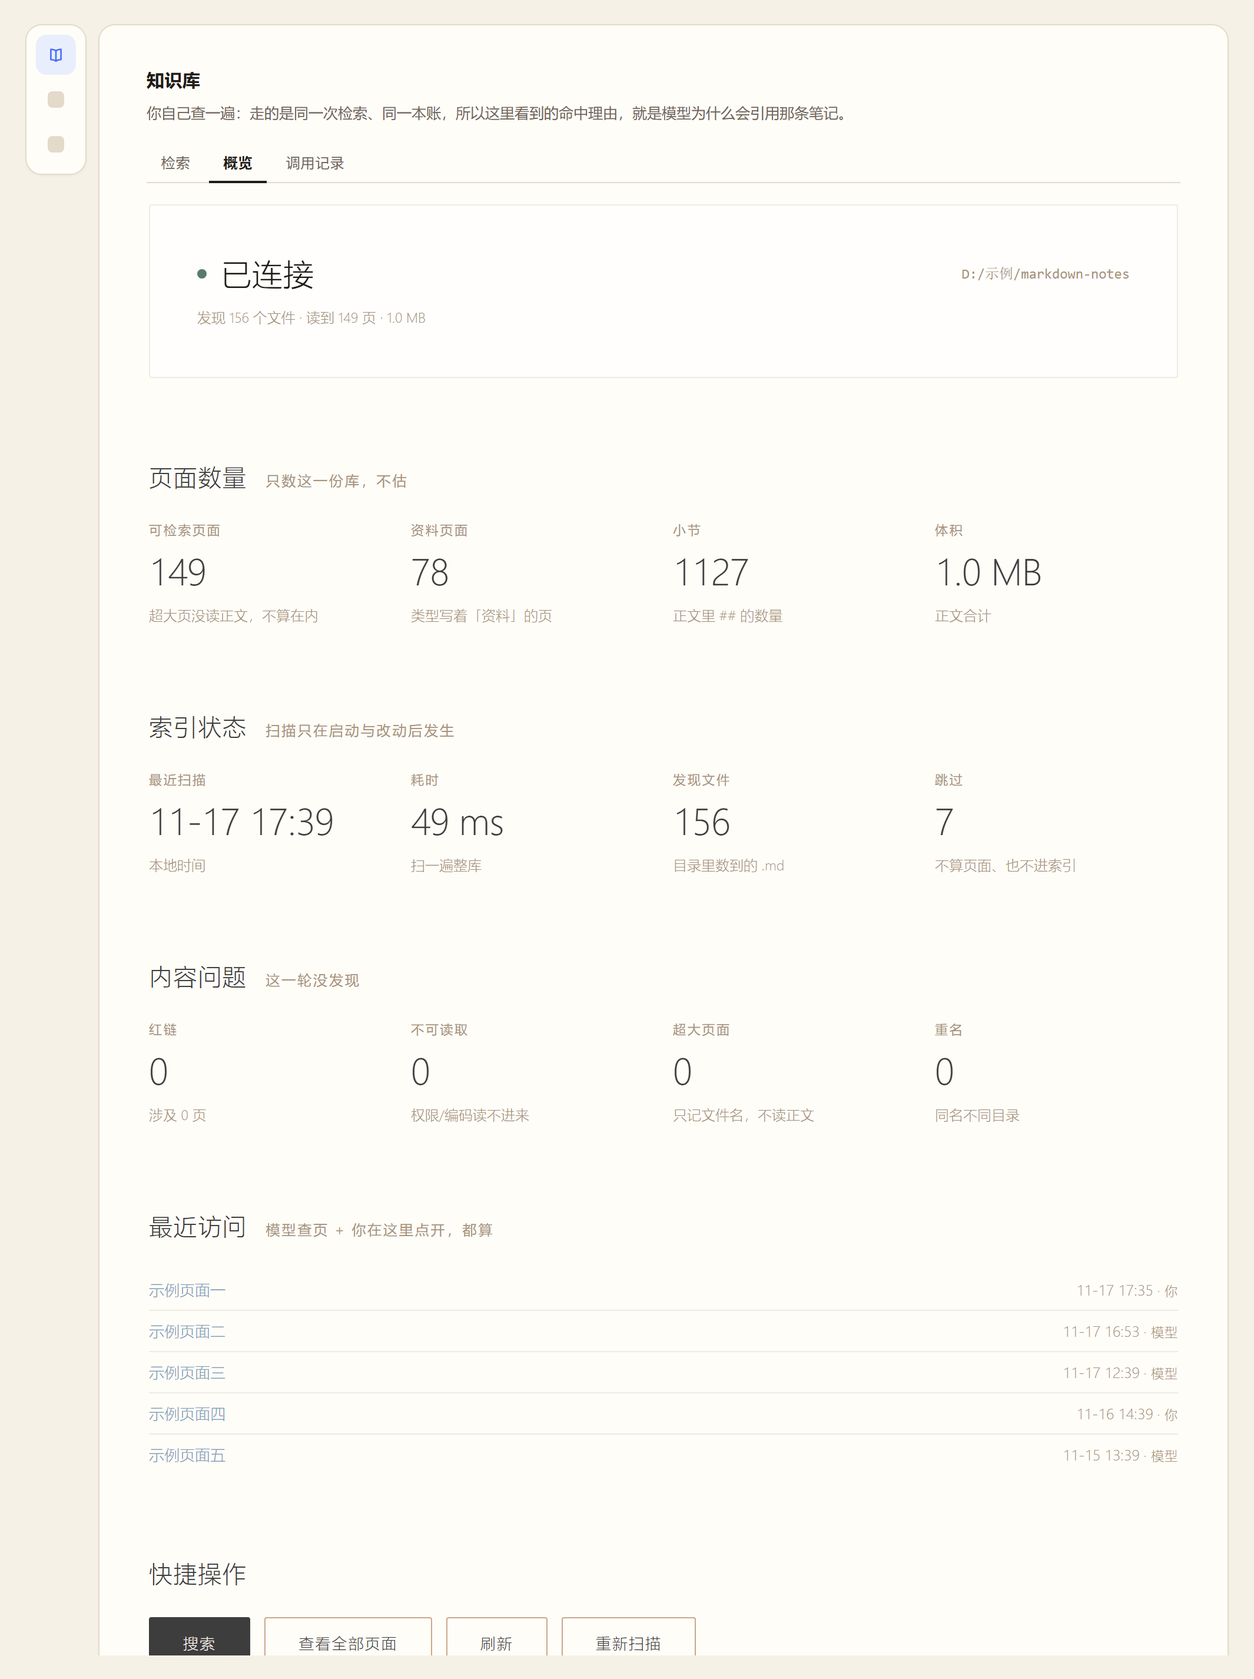
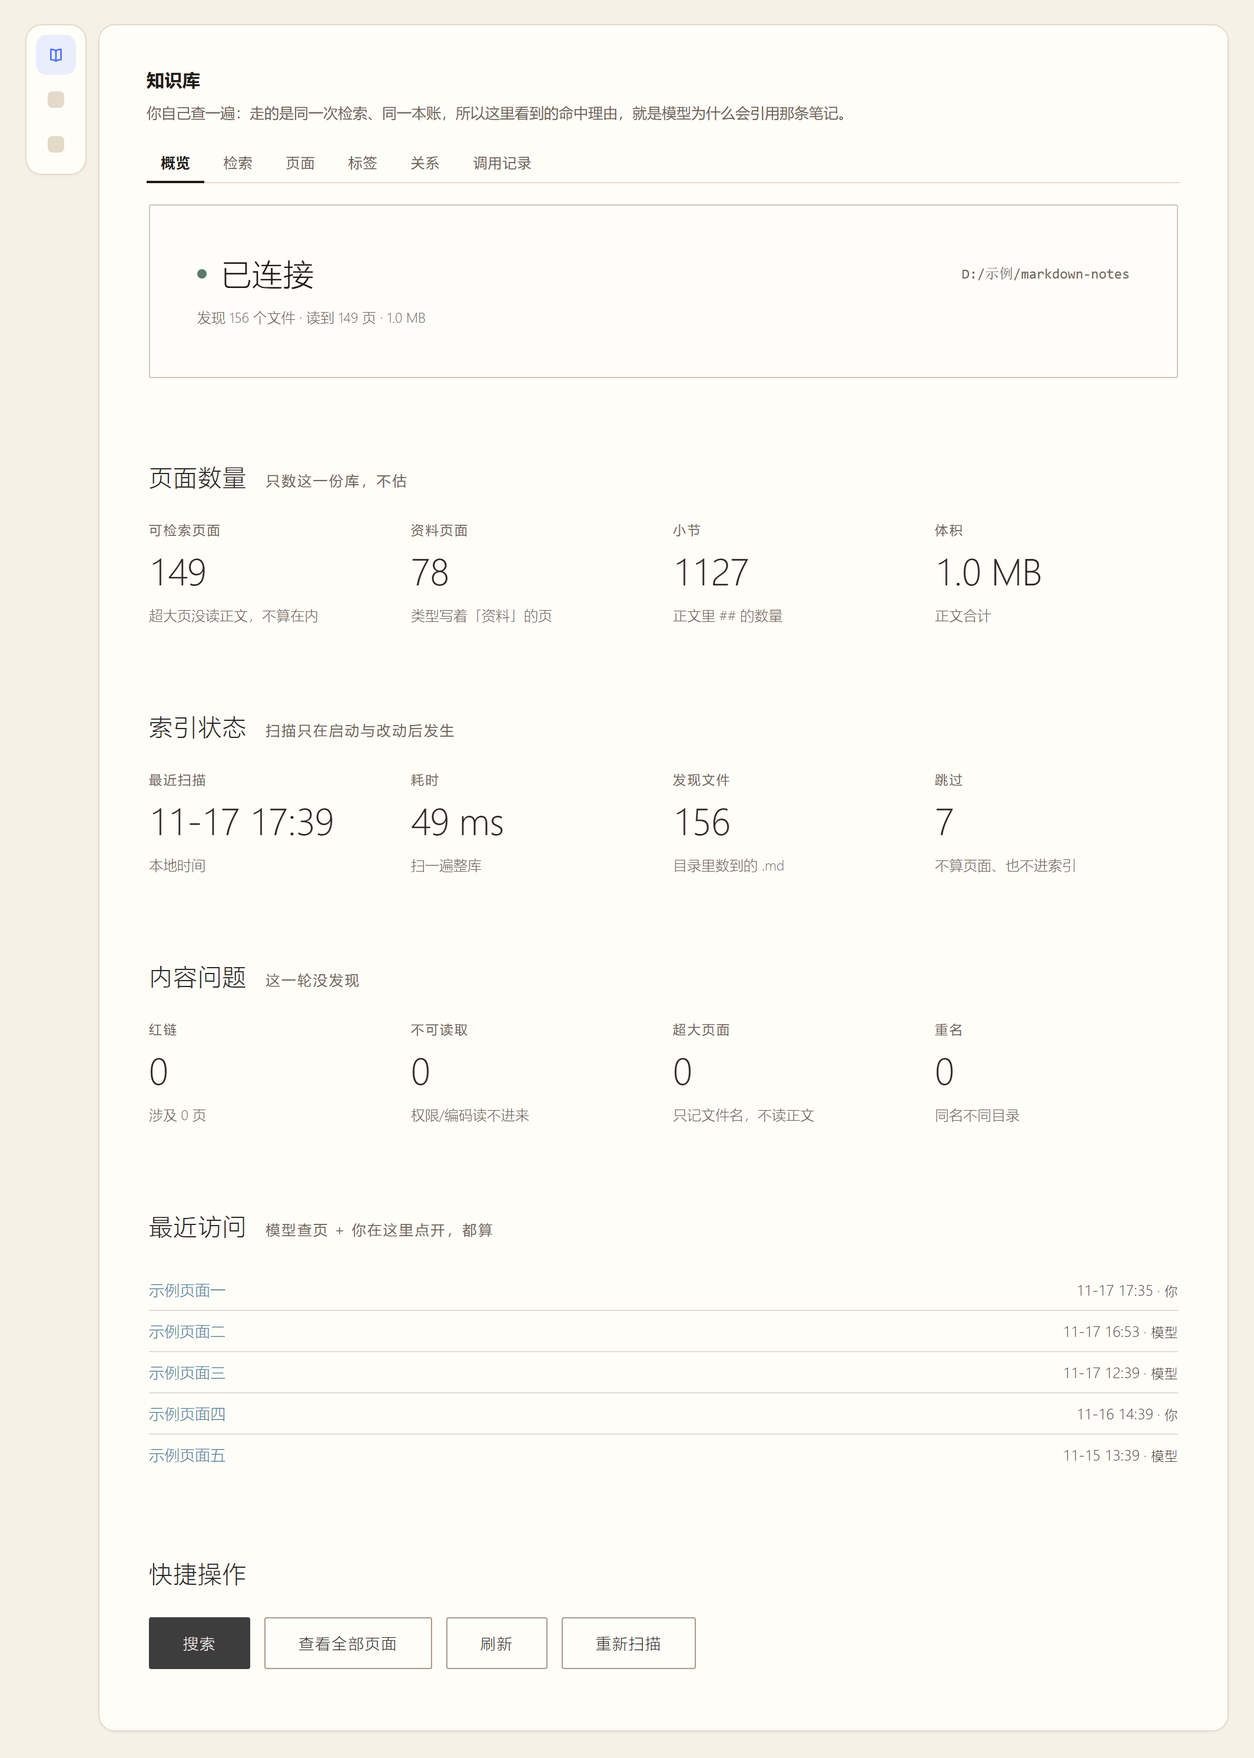
feat: 概览做首页，页面/标签/关系各自成窗；概览配色提高对比度（1.8.1）

diff --git a/lib/client.js b/lib/client.js
@@ -2248,21 +2248,21 @@ window.__ModuleLoader__.load({
       '.wn-gov-row-head b{font-variant-numeric:tabular-nums;}',
       '.wn-gov-detail,.wn-gov-note{font-size:11.5px;color:var(--wn-muted);line-height:1.5;}',
       '}',
-      '.hx{gap:0;max-width:1040px;margin:0 auto;width:100%;font-family:Inter,"Segoe UI",system-ui,-apple-system,sans-serif;font-weight:300;line-height:1.8;color:#3d3d3d;}',
+      '.hx{gap:0;max-width:1040px;margin:0 auto;width:100%;font-family:Inter,"Segoe UI",system-ui,-apple-system,sans-serif;font-weight:300;line-height:1.8;color:#2b2724;}',
       '.hx *{box-sizing:border-box;}',
       '.hx-sec{margin:56px 0 0;}',
       '.hx-sec-head{display:flex;align-items:baseline;gap:16px;margin:0 0 24px;}',
-      '.hx-h{margin:0;font-size:20px;font-weight:300;letter-spacing:0.04em;color:#3d3d3d;}',
-      '.hx-sec-note{font-size:12px;font-weight:400;letter-spacing:0.12em;color:#a89279;}',
-      '.hx-card{background:rgba(255,255,255,0.60);border:1px solid rgba(212,205,197,0.40);border-radius:2px;padding:28px;transition:border-color 700ms ease-in-out,background-color 700ms ease-in-out;}',
-      '.hx-card:hover{border-color:rgba(212,205,197,0.80);}',
+      '.hx-h{margin:0;font-size:20px;font-weight:300;letter-spacing:0.04em;color:#2b2724;}',
+      '.hx-sec-note{font-size:12px;font-weight:400;letter-spacing:0.12em;color:#6f6558;}',
+      '.hx-card{background:#fffdf9;border:1px solid rgba(168,152,133,0.55);border-radius:2px;padding:28px;transition:border-color 700ms ease-in-out,background-color 700ms ease-in-out;}',
+      '.hx-card:hover{border-color:rgba(90,122,107,0.55);}',
       '.hx-card-lead{padding:40px;}',
       '.hx-pad{padding:24px 28px;}',
       '.hx-grid{display:grid;grid-template-columns:repeat(auto-fit,minmax(200px,1fr));gap:16px;}',
       '.hx-grid-2{grid-template-columns:repeat(auto-fit,minmax(260px,1fr));}',
-      '.hx-label{font-size:11px;font-weight:400;letter-spacing:0.12em;color:#a89279;margin:0 0 8px;}',
-      '.hx-value{font-size:32px;font-weight:200;line-height:1.2;letter-spacing:-0.01em;color:#3d3d3d;font-variant-numeric:tabular-nums;}',
-      '.hx-note{margin:8px 0 0;font-size:12px;font-weight:300;line-height:1.8;color:#a89279;}',
+      '.hx-label{font-size:11px;font-weight:400;letter-spacing:0.12em;color:#6f6558;margin:0 0 8px;}',
+      '.hx-value{font-size:32px;font-weight:200;line-height:1.2;letter-spacing:-0.01em;color:#2b2724;font-variant-numeric:tabular-nums;}',
+      '.hx-note{margin:8px 0 0;font-size:12px;font-weight:300;line-height:1.8;color:#6f6558;}',
       '.hx-stale{margin:0;padding:14px 18px;border:1px solid rgba(201,168,140,0.55);border-radius:2px;background:rgba(201,168,140,0.10);color:#6f6558;}',
       '.hx-mono{font-family:ui-monospace,SFMono-Regular,Menlo,Consolas,monospace;font-size:12px;letter-spacing:0;}',
       '.hx-status-row{display:flex;align-items:center;gap:12px;flex-wrap:wrap;}',
@@ -2271,37 +2271,37 @@ window.__ModuleLoader__.load({
       '.hx-dot-warn{background:#c9a88c;}',
       '.hx-dot-err{background:#a9715c;}',
       '.hx-status-text{font-size:26px;font-weight:200;letter-spacing:0.02em;}',
-      '.hx-status-path{margin-left:auto;color:#a89279;max-width:100%;overflow:hidden;text-overflow:ellipsis;white-space:nowrap;}',
-      '.hx-row{display:flex;align-items:baseline;justify-content:space-between;gap:16px;padding:8px 0;border-bottom:1px solid rgba(212,205,197,0.40);font-size:13px;font-weight:300;}',
+      '.hx-status-path{margin-left:auto;color:#6f6558;max-width:100%;overflow:hidden;text-overflow:ellipsis;white-space:nowrap;}',
+      '.hx-row{display:flex;align-items:baseline;justify-content:space-between;gap:16px;padding:8px 0;border-bottom:1px solid rgba(168,152,133,0.35);font-size:13px;font-weight:300;}',
       '.hx-row:last-child{border-bottom:0;}',
-      '.hx-row-value{flex:0 0 auto;color:#a89279;font-variant-numeric:tabular-nums;}',
+      '.hx-row-value{flex:0 0 auto;color:#4a423a;font-variant-numeric:tabular-nums;}',
       '.hx-row-unit{font-size:11px;letter-spacing:0.04em;}',
-      '.hx-link{font:inherit;font-weight:300;color:#7ba0b8;background:none;border:0;padding:0;cursor:pointer;text-align:left;transition:color 700ms ease-in-out;}',
+      '.hx-link{font:inherit;font-weight:300;color:#4f7d99;background:none;border:0;padding:0;cursor:pointer;text-align:left;transition:color 700ms ease-in-out;}',
       '.hx-link:hover{color:#5a7a6b;}',
       '.hx-actions{display:flex;gap:12px;flex-wrap:wrap;}',
-      '.hx-btn{font:inherit;font-size:13px;font-weight:300;letter-spacing:0.08em;padding:12px 28px;border-radius:2px;border:1px solid #c9a88c;background:transparent;color:#3d3d3d;cursor:pointer;transition:background-color 700ms ease-in-out,border-color 700ms ease-in-out,color 700ms ease-in-out;}',
+      '.hx-btn{font:inherit;font-size:13px;font-weight:300;letter-spacing:0.08em;padding:12px 28px;border-radius:2px;border:1px solid #a89a8a;background:transparent;color:#2b2724;cursor:pointer;transition:background-color 700ms ease-in-out,border-color 700ms ease-in-out,color 700ms ease-in-out;}',
       '.hx-btn:hover:not(:disabled){border-color:#5a7a6b;color:#5a7a6b;}',
       '.hx-btn:disabled{opacity:0.45;cursor:default;}',
       '.hx-btn:focus-visible{outline:1px solid #5a7a6b;outline-offset:2px;}',
       '.hx-btn-solid{background:#3d3d3d;border-color:#3d3d3d;color:#f5f0eb;}',
       '.hx-btn-solid:hover:not(:disabled){background:#5a7a6b;border-color:#5a7a6b;color:#f5f0eb;}',
       '.hx-chips{display:flex;flex-wrap:wrap;gap:8px;}',
-      '.hx-chip{display:inline-flex;align-items:center;gap:8px;font-size:12px;font-weight:300;padding:6px 12px;border:1px solid rgba(212,205,197,0.80);border-radius:2px;background:rgba(255,255,255,0.50);color:#3d3d3d;}',
-      '.hx-chip-count{font-size:11px;color:#a89279;font-variant-numeric:tabular-nums;}',
+      '.hx-chip{display:inline-flex;align-items:center;gap:8px;font-size:12px;font-weight:300;padding:6px 12px;border:1px solid rgba(168,152,133,0.60);border-radius:2px;background:#fffdf9;color:#2b2724;}',
+      '.hx-chip-count{font-size:11px;color:#6f6558;font-variant-numeric:tabular-nums;}',
       '.hx-meta{display:flex;flex-wrap:wrap;gap:8px;margin:12px 0 0;}',
-      '.hx-input{width:100%;font:inherit;font-size:13px;font-weight:300;padding:12px 16px;margin:16px 0;border:1px solid rgba(212,205,197,0.80);border-radius:2px;background:rgba(255,255,255,0.70);color:#3d3d3d;transition:border-color 700ms ease-in-out;}',
+      '.hx-input{width:100%;font:inherit;font-size:13px;font-weight:300;padding:12px 16px;margin:16px 0;border:1px solid rgba(168,152,133,0.60);border-radius:2px;background:#fffdf9;color:#2b2724;transition:border-color 700ms ease-in-out;}',
       '.hx-input:focus{outline:none;border-color:#5a7a6b;}',
       '.hx-pages{max-height:360px;overflow:auto;margin:0 -8px;}',
-      '.hx-page-row{display:flex;align-items:baseline;justify-content:space-between;gap:16px;width:100%;font:inherit;font-size:13px;font-weight:300;text-align:left;padding:10px 8px;border:0;border-bottom:1px solid rgba(212,205,197,0.40);background:transparent;color:#3d3d3d;cursor:pointer;transition:background-color 700ms ease-in-out;}',
+      '.hx-page-row{display:flex;align-items:baseline;justify-content:space-between;gap:16px;width:100%;font:inherit;font-size:13px;font-weight:300;text-align:left;padding:10px 8px;border:0;border-bottom:1px solid rgba(168,152,133,0.30);background:transparent;color:#2b2724;cursor:pointer;transition:background-color 700ms ease-in-out;}',
       '.hx-page-row:hover{background:rgba(201,168,140,0.10);}',
       '.hx-page-row:last-child{border-bottom:0;}',
       '.hx-page-row-on{background:rgba(123,160,184,0.12);}',
       '.hx-page-name{overflow:hidden;text-overflow:ellipsis;white-space:nowrap;}',
-      '.hx-page-meta{flex:0 0 auto;font-size:11px;letter-spacing:0.04em;color:#a89279;}',
+      '.hx-page-meta{flex:0 0 auto;font-size:11px;letter-spacing:0.04em;color:#6f6558;}',
       '.hx-page-card{margin-top:16px;}',
       '.hx-page-head{display:flex;align-items:baseline;justify-content:space-between;gap:16px;}',
       '.hx-page-title{margin:0;font-size:20px;font-weight:300;letter-spacing:0.02em;}',
-      '.hx-body{margin:16px 0 0;padding:24px;max-height:340px;overflow:auto;white-space:pre-wrap;word-break:break-word;font-family:inherit;font-size:13px;font-weight:300;line-height:1.9;background:#f5f0eb;border-radius:2px;color:#3d3d3d;}',
+      '.hx-body{margin:16px 0 0;padding:24px;max-height:340px;overflow:auto;white-space:pre-wrap;word-break:break-word;font-family:inherit;font-size:13px;font-weight:300;line-height:1.9;background:#f7f2ec;border:1px solid rgba(168,152,133,0.35);border-radius:2px;color:#2b2724;}',
     ].join('')
 
     /* ------------------------------ 右侧栏 ------------------------------ */
@@ -2404,6 +2404,11 @@ window.__ModuleLoader__.load({
      * 2px 直角、无阴影，字重只用 200/300/400，hover 只动边框与底色。
      */
     function WikiPanelStatus(props) {
+      // 一个组件出四个窗：概览 / 页面 / 标签 / 关系。分开成四个组件会让
+      // 「读 /state」这段代码抄四遍 —— 四份 state 迟早不同步。
+      var view =
+        props !== null && typeof props === 'object' && typeof props.view === 'string' ? props.view : 'overview'
+
       // 静态预览（tools/preview.mjs）会直接喂一份 /state 的数据：截图里出现
       // 「读状态失败」比什么都不画更糟，所以给了 data 就不再打接口。
       var seeded =
@@ -2510,6 +2515,15 @@ window.__ModuleLoader__.load({
             setList({ rows: [], busy: false, error: '读页面清单失败：' + error.message })
           })
       }
+
+      // 「页面」这个窗一进来就要有清单，不必再点一下「查看全部页面」。
+      // 预览（给了 seeded）里没有服务端，就别去请求，留给下面的空态说明。
+      useEffect(
+        function () {
+          if (view === 'pages' && seeded === null) loadPages()
+        },
+        [view, seeded],
+      )
 
       function openPage(name) {
         if (typeof name !== 'string' || name === '' || openBusy !== '') return
@@ -2757,13 +2771,14 @@ window.__ModuleLoader__.load({
             'button',
             {
               type: 'button',
-              className: showList ? 'hx-btn hx-btn-solid' : 'hx-btn',
+              className: 'hx-btn',
               onClick: function () {
-                if (showList) setShowList(false)
+                // 清单在「页面」那个窗里，首页这颗按钮只管把人送过去。
+                if (typeof props.onBrowse === 'function') props.onBrowse()
                 else loadPages()
               },
             },
-            showList ? '收起页面清单' : '查看全部页面',
+            '查看全部页面',
           ),
           h(
             'button',
@@ -2837,7 +2852,7 @@ window.__ModuleLoader__.load({
       }
 
       var pagesSection = null
-      if (showList) {
+      if (view === 'pages' || showList) {
         var rows = list === null || !Array.isArray(list.rows) ? [] : list.rows
         var needle = filter.trim().toLowerCase()
         var shown = needle === '' ? rows : rows.filter(function (row) {
@@ -2969,33 +2984,39 @@ window.__ModuleLoader__.load({
         ),
       )
 
+      // 一个组件，四个窗。挤在一起会变成一屏小字：六块计数还没看完，
+      // 榜单已经滑出视野了。
+      var viewSections = {
+        overview: [staleHost, statusCard, countsSection, indexSection, problemsSection, visitsSection, quickSection],
+        pages: [pagesSection, openCard],
+        tags: [tagsSection],
+        relations: [relationsSection],
+      }
+      var body = viewSections[view] === undefined ? viewSections.overview : viewSections[view]
+
       return h(
         'div',
-        { className: 'wn-root hx' },
+        { className: 'wn-root hx hx-view-' + view },
         notice === null ? null : h(Notice, { tone: notice.tone, message: notice.text }),
-        statusCard,
-        staleHost,
-        countsSection,
-        indexSection,
-        problemsSection,
-        visitsSection,
-        quickSection,
-        openCard,
-        pagesSection,
-        tagsSection,
-        relationsSection,
+        body,
       )
     }
 
+    // 概览是首页：进来先看「这个库现在什么状况」，再决定去查什么。
+    // 其余几块各自成窗 —— 全挤在首页里，六块数字会被稀释成一片小字，
+    // 而「关系」「标签」这种要看榜的，本来就不该跟计数挤在一屏。
     var PANEL_TABS = [
+      ['overview', '概览'],
       ['search', '检索'],
-      ['status', '概览'],
+      ['pages', '页面'],
+      ['tags', '标签'],
+      ['relations', '关系'],
       ['calls', '调用记录'],
     ]
 
-    /** 左侧栏点开的那一页：三个页签，直接复用下面几个现成组件。 */
+    /** 左侧栏点开的那一页：概览做首页，其余各自成窗，都复用现成组件。 */
     function WikiPanel() {
-      var tabTuple = useState('search')
+      var tabTuple = useState('overview')
       var tab = tabTuple[0]
       var setTab = tabTuple[1]
 
@@ -3039,8 +3060,13 @@ window.__ModuleLoader__.load({
           : tab === 'calls'
             ? h(WikiCallsSection, { embedded: true })
             : h(WikiPanelStatus, {
+                // 同一个组件按 view 出不同的窗：概览只摆六块，页面/标签/关系各自成页。
+                view: tab,
                 onSearch: function () {
                   setTab('search')
+                },
+                onBrowse: function () {
+                  setTab('pages')
                 },
               }),
       )

diff --git a/README.md b/README.md
@@ -223,17 +223,20 @@ plugin_manager { action: "install_bundle", target: "<绝对路径>" }
 
 ## 知识库页（左侧栏）
 
-左侧栏最上面那本书，点进去是一整页工作台（不是弹层、不是设置里的一个 tab）。它是 DSH 的**主面板**之一，和「插件」「自动化任务」平级 —— 占满主列，切走会卸载，所以来回切不攒后台轮询。三个页签：
+左侧栏最上面那本书，点进去是一整页工作台（不是弹层、不是设置里的一个 tab）。它是 DSH 的**主面板**之一，和「插件」「自动化任务」平级 —— 占满主列，切走会卸载，所以来回切不攒后台轮询。**概览是首页**，落地先看「这个库现在什么状况」，再决定去查什么：
 
 | 页签 | 里面有什么 |
 | --- | --- |
+| 概览 | 状态 / 页面数量 / 索引 / 内容问题 / 最近访问 / 快捷操作，见下 |
 | 检索 | 和右侧栏那个面板同一份组件（`compact:false`，宽屏下正文不再截高），能自己搜、看命中理由、复制出处 |
-| 概览 | 状态 / 页面数量 / 索引 / 内容问题 / 最近访问 / 快捷操作 / 主题与标签 / 知识关系，见下 |
+| 页面 | 全部页面清单，按页名筛，点一行读正文（带 citation） |
+| 标签 | 库里出现最多的 12 个标签，点一下就当查询词 |
+| 关系 | 枢纽页（被引最多）、孤岛页（没人链过来）、最该先补的页 |
 | 调用记录 | 就是上面那份账本，含「反复打空的查询」 |
 
 ![概览页签：左边一串数字全是宿主算好的，这一页只负责摆出来](docs/preview-overview.png)
 
-概览页签按「先看库有没有毛病，再决定查什么」排：
+概览按「先看库有没有毛病，再决定查什么」排，只摆这六块：
 
 | 块 | 内容 | 为什么在这一块 |
 | --- | --- | --- |
@@ -243,16 +246,18 @@ plugin_manager { action: "install_bundle", target: "<绝对路径>" }
 | 内容问题 | 红链几处、涉及几页，不可读取、超大页面、重名 | 断链是库里的洞，不修就永远查不到 |
 | 最近访问 | 最近打开过的 5 篇，标「· 你」还是「· 模型」 | 接着上次的地方看，不用重新想查什么 |
 | 快捷操作 | 搜索、查看全部页面、刷新、重新扫描 | 这一页的四个动词就够，其余回设置页 |
-| 主题与标签 | 库里出现最多的 12 个标签，点一下就当查询词 | 不知道查什么的时候，从标签入手 |
-| 知识关系 | 枢纽页（被引最多）、孤岛页（没人链过来）、最该先补的页 | 断链的落点集中在哪几个名字上，一眼能看出来 |
+
+页面清单、标签、关系各自成窗，不挤在首页 —— 六块计数还没看完，榜单已经滑出视野了。**一个组件出四个窗**（`view` 区分），不是四个组件各读一遍 `/state`；同一个数在两处出现，迟早会算出两个答案。
 
 **这些数字全部由宿主算好再送过来，前端一个 `reduce` 都没有。** `GET /state` 里的 `overview` 与 `stats` 同源同一次扫描（`overviewOf(corpus)`），所以概览和状态卡不可能对不上；「可检索页面 = 全部 − 超大未读」这类减法也写在宿主，而不是在渲染时现算 —— 两个地方各算一遍，迟早会算出两个答案。
 
 **最近访问是真的账本**：`visits.jsonl` 跟调用记录同一套纪律（追加、失败只 warn、有上限），模型读一页（`wiki_recall` 的 `page` 模式）和你在面板里点开一页（`GET /page`）都记一条，`source` 分开写，面板上才能分出「· 你」和「· 模型」。同一页连着读两次只留最新那一条 —— 这不是流水账，是「最近在哪几页」。
 
-概览页签只显示、不改：改路径和提示词仍然回设置页 —— 这里出现两颗「保存」按钮的话，人就会在错的地方改配置。
+概览只显示、不改：改路径和提示词仍然回设置页 —— 这里出现两颗「保存」按钮的话，人就会在错的地方改配置。
 
 排版照 `design (1).md` 那套北欧极简：Inter、字重只用 200/300/400、卡片 2px 直角 + 无阴影 + hover 只改边框、过渡 700ms。样式全部限定在 `.wn-page` 作用域内的 `.hx-*` 前缀 —— 插件的 CSS 是往 `document.head` 里塞一个 `<style>`，不带作用域会漏进 DSH 自己的界面。
+
+**对比度是照着设计稿又改了一遍的地方。** 设计稿的次级文字是 `#a89279`、卡片是 60% 白 —— 那套配色放在落地页上很轻，放进 DSH 的暖白画布就糊成一片，数字看着像禁用态。现在正文压到 `#2b2724`、次级文字 `#6f6558`、卡片实底 `#fffdf9` + 更实的描边，2px 直角与 700ms 过渡照旧（`tests/client.mjs` 把这几个值钉住了，免得哪天又被「调淡一点」改回去）。
 
 图标是一本书（`icon.svg` 同一份线稿，颜色吃 `currentColor`，选中时线粗一点），不额外装图标库。
 

diff --git a/CHANGELOG.md b/CHANGELOG.md
@@ -2,6 +2,31 @@
 
 本文件的体例：只记「对使用者有影响的行为变化」，不记内部重构。版本号遵循 semver，`0.x` 阶段不承诺兼容。
 
+## 1.8.1
+
+### 改：概览只做首页，页面 / 标签 / 关系各自成窗
+
+上一版把八块全塞在一个页签里：六块计数还没看完，榜单已经滑出视野。现在六个页签，概览排第一（进来就是它）：
+
+`概览 · 检索 · 页面 · 标签 · 关系 · 调用记录`
+
+- 概览只留：知识库状态、页面数量、索引状态、内容问题、最近访问、快捷操作。
+- 页面：全部页面清单 + 按页名筛 + 点一行读正文，一进这个窗就开始读清单，不必再点一次。
+- 标签：出现最多的 12 个标签，点一下当查询词。
+- 关系：枢纽页、孤岛页、最该先补的页 —— 「知识关系」在这扇窗里。
+- 四个窗是**同一个组件的四种 view**，不是四个组件各读一遍 `/state`：四份 state 迟早不同步。
+
+### 改：配色提高对比度
+
+设计稿的次级文字 `#a89279`、60% 白卡片，放在 DSH 的暖白画布上糊成一片，数字看着像禁用态。现在：
+
+- 正文 `#2b2724`（原 `#3d3d3d`），数字与标题同色；
+- 次级文字 `#6f6558`，榜单里的值 `#4a423a`；
+- 卡片实底 `#fffdf9` + 1px `rgba(168,152,133,0.55)` 描边，hover 边框转 moss `rgba(90,122,107,0.55)`；
+- 链接 `#4f7d99`（原 `#7ba0b8`），正文块 `#f7f2ec` 加细边。
+
+2px 直角、无阴影、700ms 过渡、字重只用 200/300/400 这几条设计稿纪律没变，`tests/client.mjs` 把它们和上面几个色值一起钉住了。
+
 ## 1.8.0
 
 ### 新：左侧栏的「概览」变成一页真账
